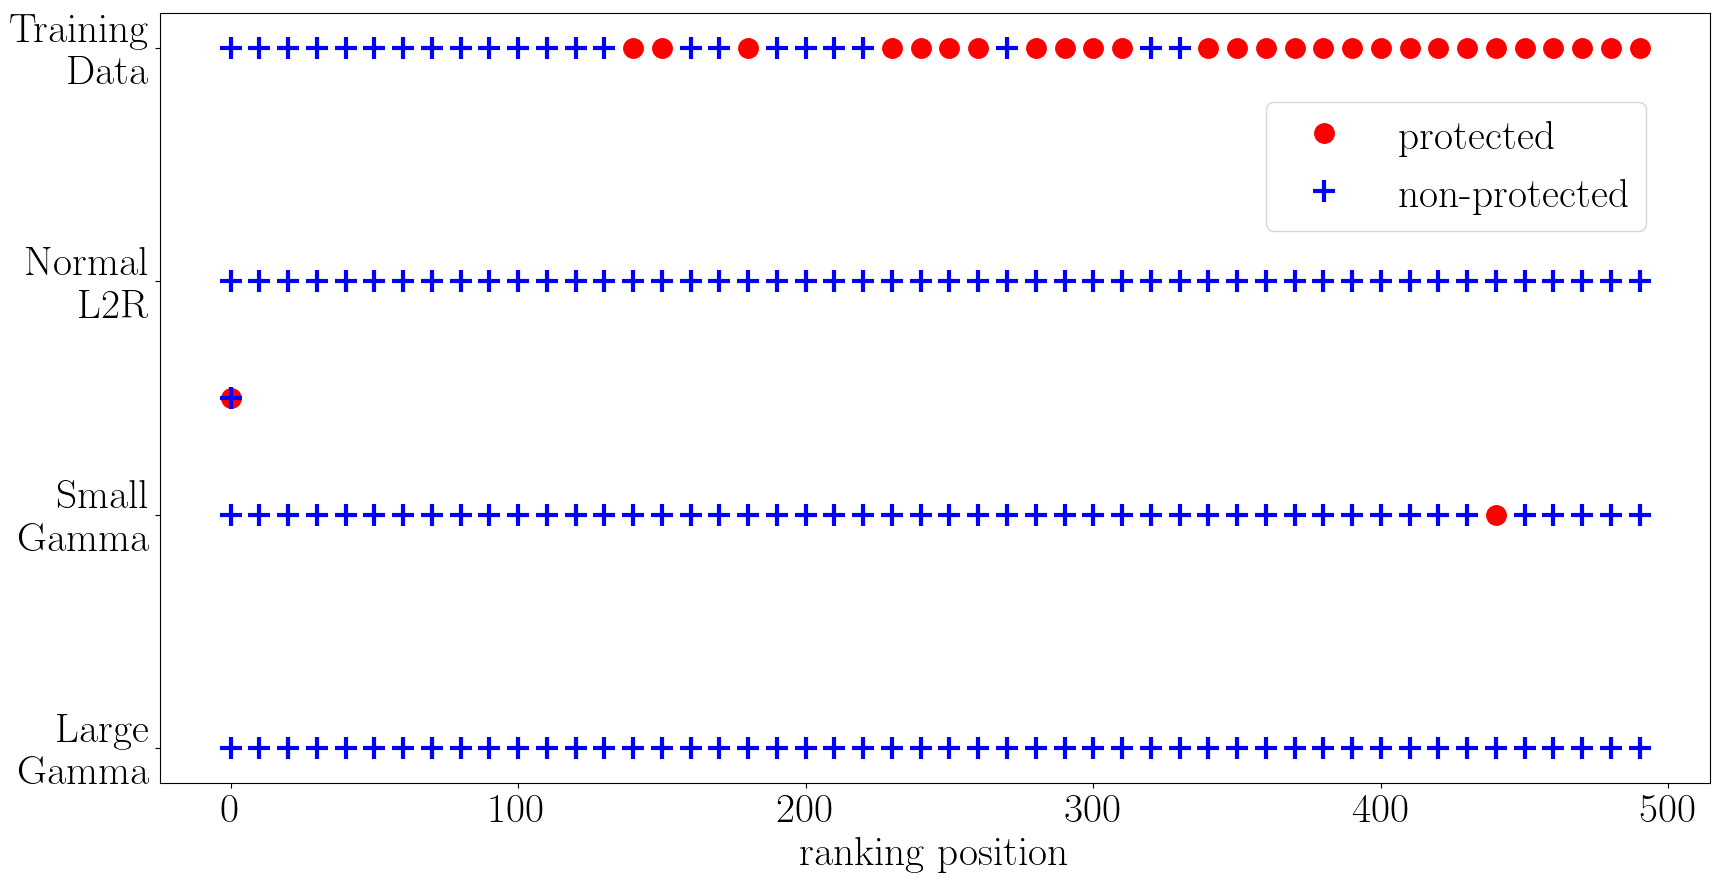
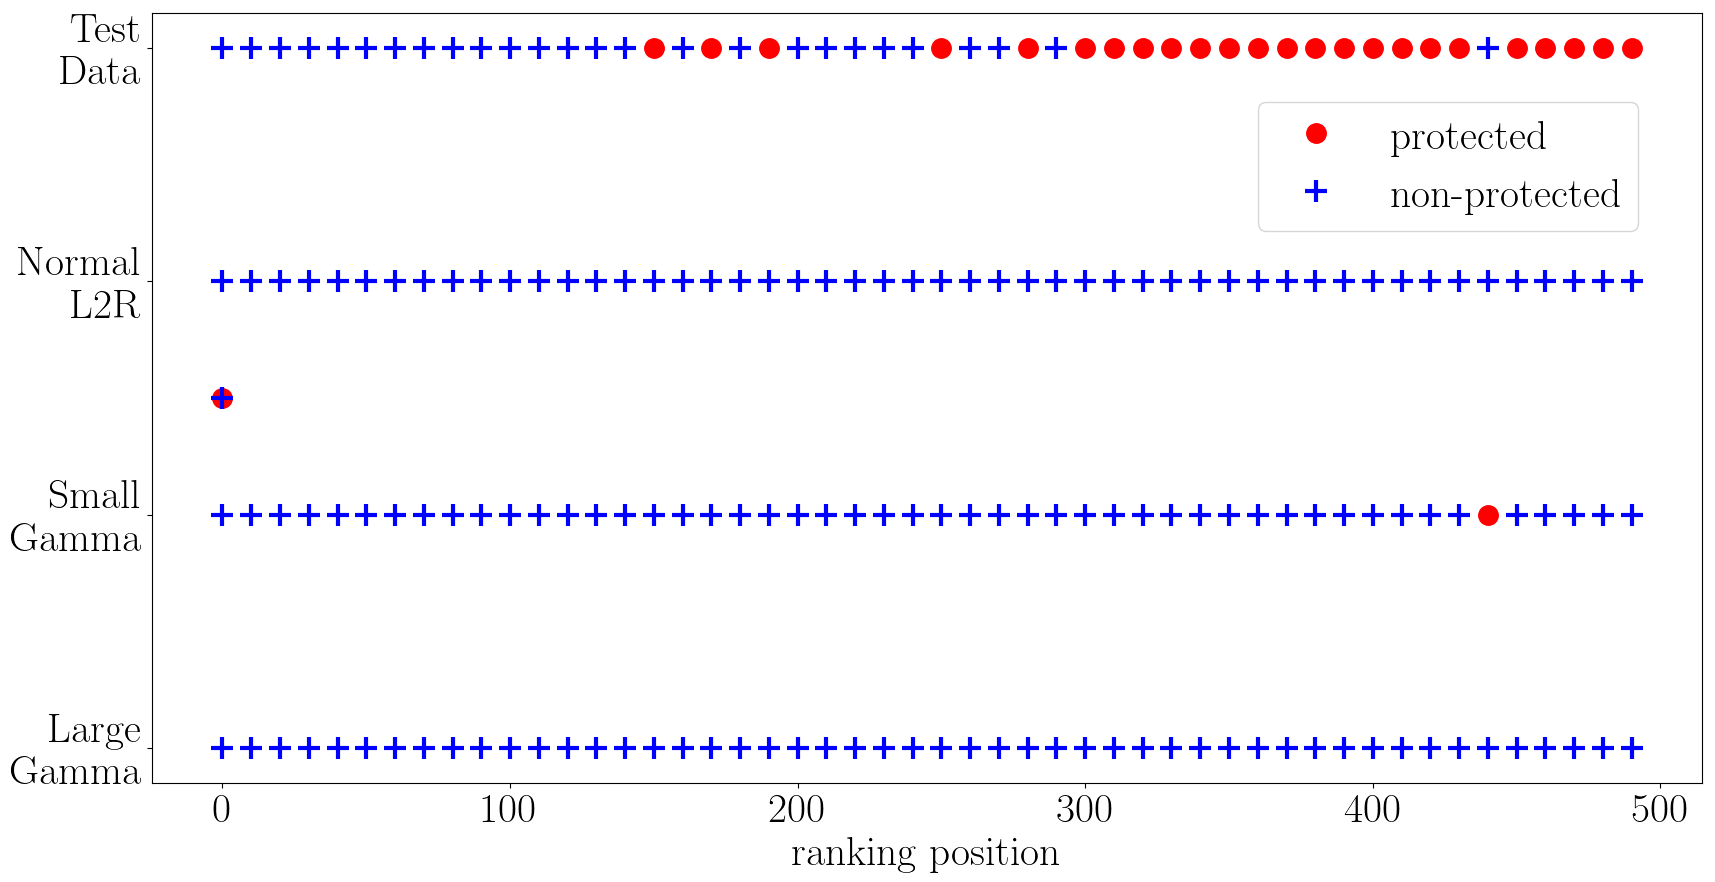
redid synthetic plots with test data

diff --git a/src/visualization/plot_synthetic.py b/src/visualization/plot_synthetic.py
@@ -24,7 +24,7 @@ pdf.plot_syntheticDataset(data, attributeNamesAndCategories, attributeQuality,
          labels=['non-protected', 'protected'])
 
 # RESULT PLOT
-input_file1 = '../../octave-src/sample/synthetic_score_gender/top_male_bottom_female/sample_train_data_scoreAndGender_separated.txt'
+input_file1 = '../../octave-src/sample/synthetic_score_gender/top_male_bottom_female/sample_test_data_scoreAndGender_separated.txt'
 input_file2 = '../../octave-src/sample/synthetic_score_gender/top_male_bottom_female/sample_test_data_scoreAndGender_separated_GAMMA_ZERO.txt.pred'
 input_file3 = '../../octave-src/sample/synthetic_score_gender/top_male_bottom_female/sample_test_data_scoreAndGender_separated_GAMMA_MEDIUM.txt.pred'
 input_file4 = '../../octave-src/sample/synthetic_score_gender/top_male_bottom_female/sample_test_data_scoreAndGender_separated_GAMMA_LARGE.txt.pred'
@@ -46,7 +46,7 @@ pdf.plot_syntheticDataset(data, attributeNamesAndCategories, attributeQuality,
          labels=['non-protected', 'protected'])
 
 # RESULT PLOT
-input_file1 = '../../octave-src/sample/synthetic_score_gender/top_female_bottom_male/sample_train_data_scoreAndGender_separated.txt'
+input_file1 = '../../octave-src/sample/synthetic_score_gender/top_female_bottom_male/sample_test_data_scoreAndGender_separated.txt'
 input_file2 = '../../octave-src/sample/synthetic_score_gender/top_female_bottom_male/sample_test_data_scoreAndGender_separated_GAMMA_ZERO.txt.pred'
 input_file3 = '../../octave-src/sample/synthetic_score_gender/top_female_bottom_male/sample_test_data_scoreAndGender_separated_GAMMA_MEDIUM.txt.pred'
 input_file4 = '../../octave-src/sample/synthetic_score_gender/top_female_bottom_male/sample_test_data_scoreAndGender_separated_GAMMA_LARGE.txt.pred'
@@ -68,7 +68,7 @@ pdf.plot_syntheticDataset(data, attributeNamesAndCategories, attributeQuality,
          labels=['non-protected', 'protected'], normal=True)
 
 # RESULT PLOT
-input_file1 = '../../octave-src/sample/synthetic_score_gender/distribution_based/sample_train_data_scoreAndGender_normalDistribution.txt'
+input_file1 = '../../octave-src/sample/synthetic_score_gender/distribution_based/sample_test_data_scoreAndGender_normalDistribution.txt'
 input_file2 = '../../octave-src/sample/synthetic_score_gender/distribution_based/sample_test_data_scoreAndGender_normalDistribution_GAMMA_ZERO.txt.pred'
 input_file3 = '../../octave-src/sample/synthetic_score_gender/distribution_based/sample_test_data_scoreAndGender_normalDistribution_GAMMA_MEDIUM.txt.pred'
 input_file4 = '../../octave-src/sample/synthetic_score_gender/distribution_based/sample_test_data_scoreAndGender_normalDistribution_GAMMA_LARGE.txt.pred'
